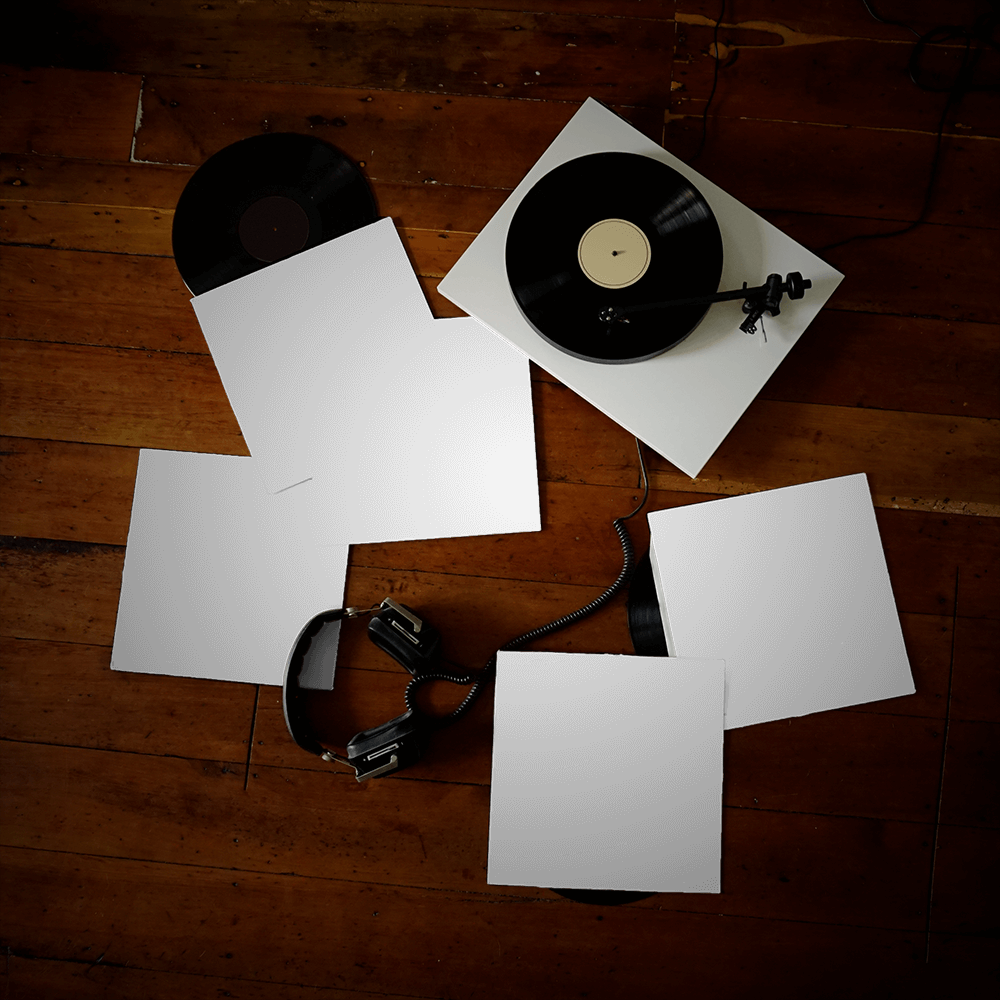
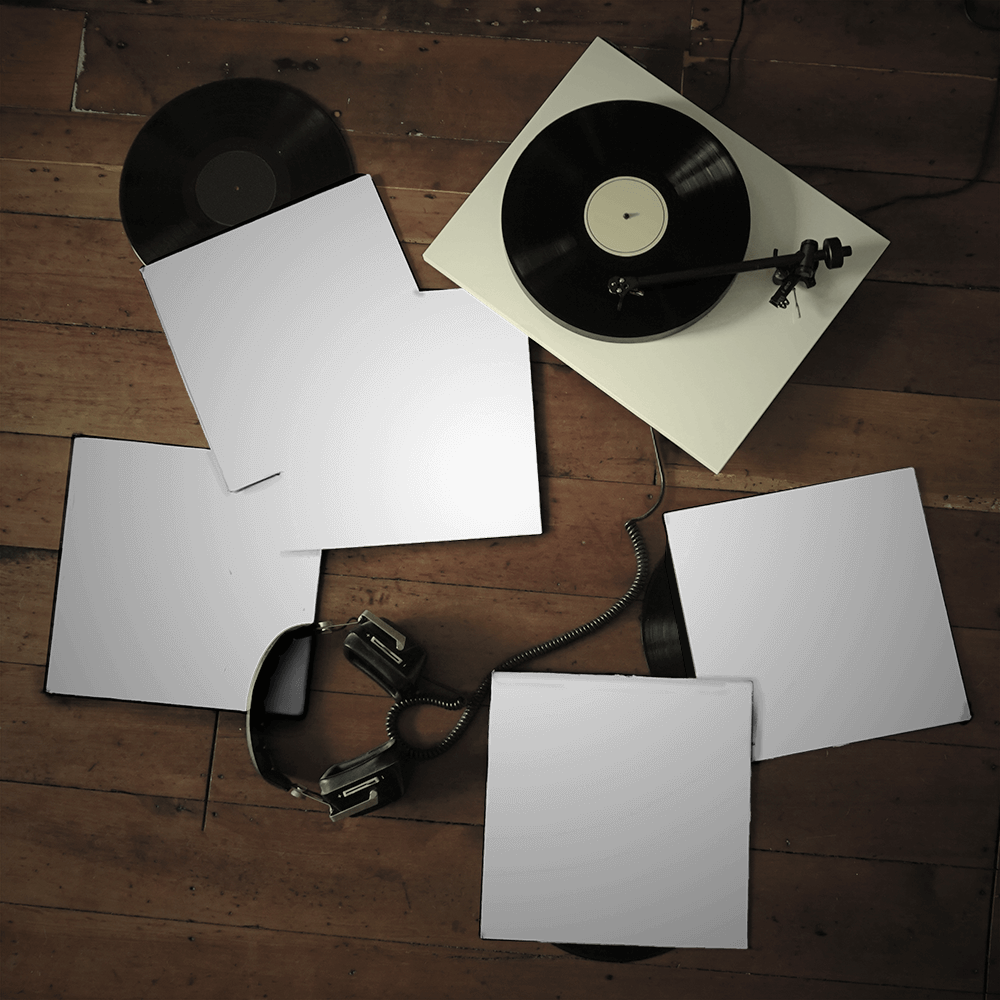
Checking in a new background image and fixed locations

diff --git a/template/index.html b/template/index.html
@@ -11,6 +11,12 @@
        <object data="/coverart/cover-art-on-floor/mr_monkey/week/750" width="{{ width }}" height="{{ height }}"></object>
        <p>https://grid.listenbrainz.org/coverart/cover-art-on-floor/mr_monkey/week/750</p>
 
+       <object data="/coverart/cover-art-on-floor/rob/week/750" width="{{ width }}" height="{{ height }}"></object>
+       <p>https://grid.listenbrainz.org/coverart/cover-art-on-floor/rob/week/750</p>
+
+       <object data="/coverart/cover-art-on-floor/jukevox/week/750" width="{{ width }}" height="{{ height }}"></object>
+       <p>https://grid.listenbrainz.org/coverart/cover-art-on-floor/jukevox/week/750</p>
+
      <h2>Dimension 2</h2>
        <h3>Layout 0</h3>
        <object data="/coverart/grid-stats/heyarne/week/2/0/750" width="{{ width }}" height="{{ height }}"></object>
